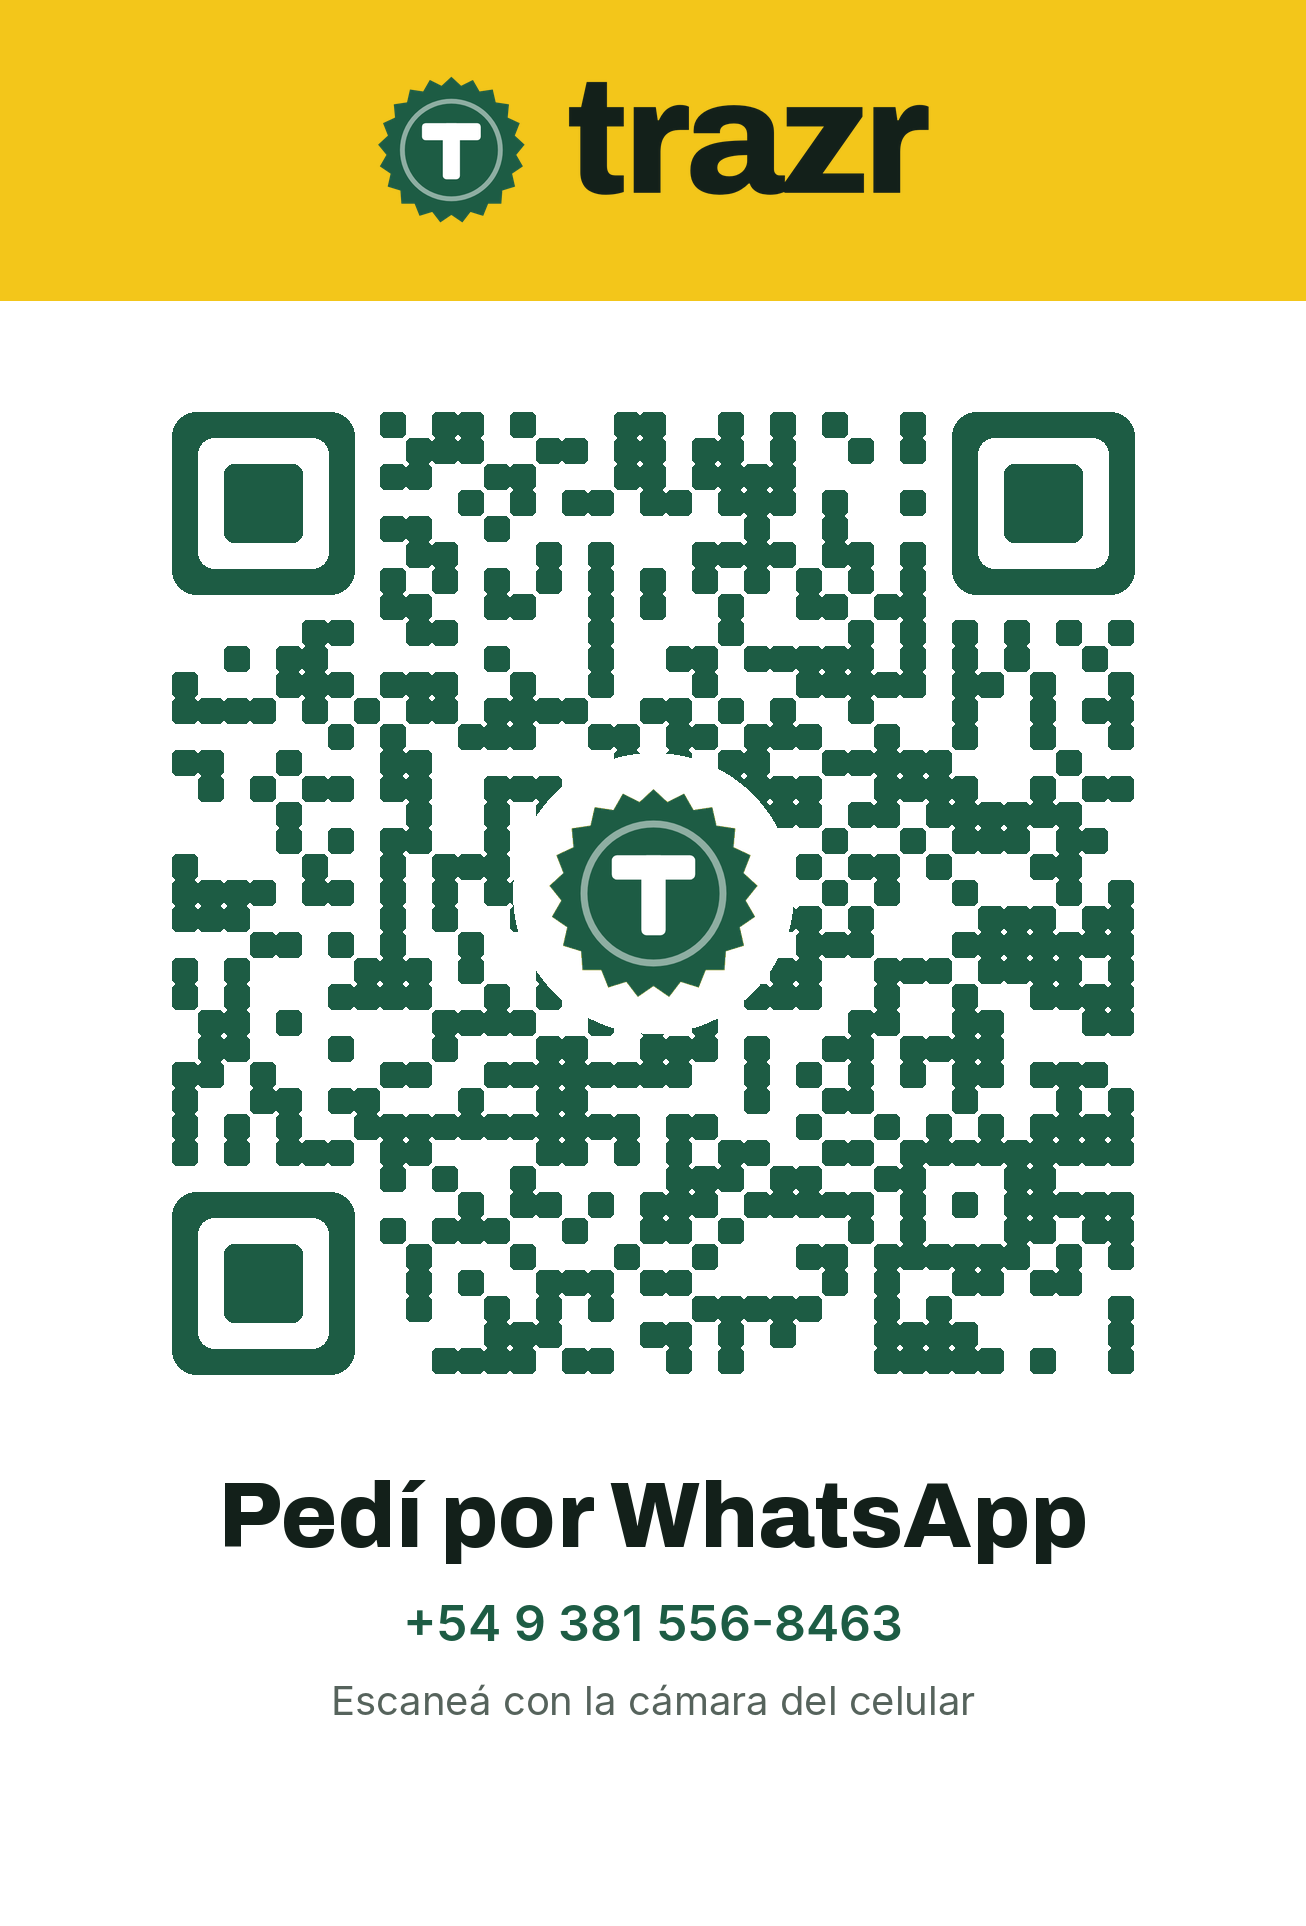
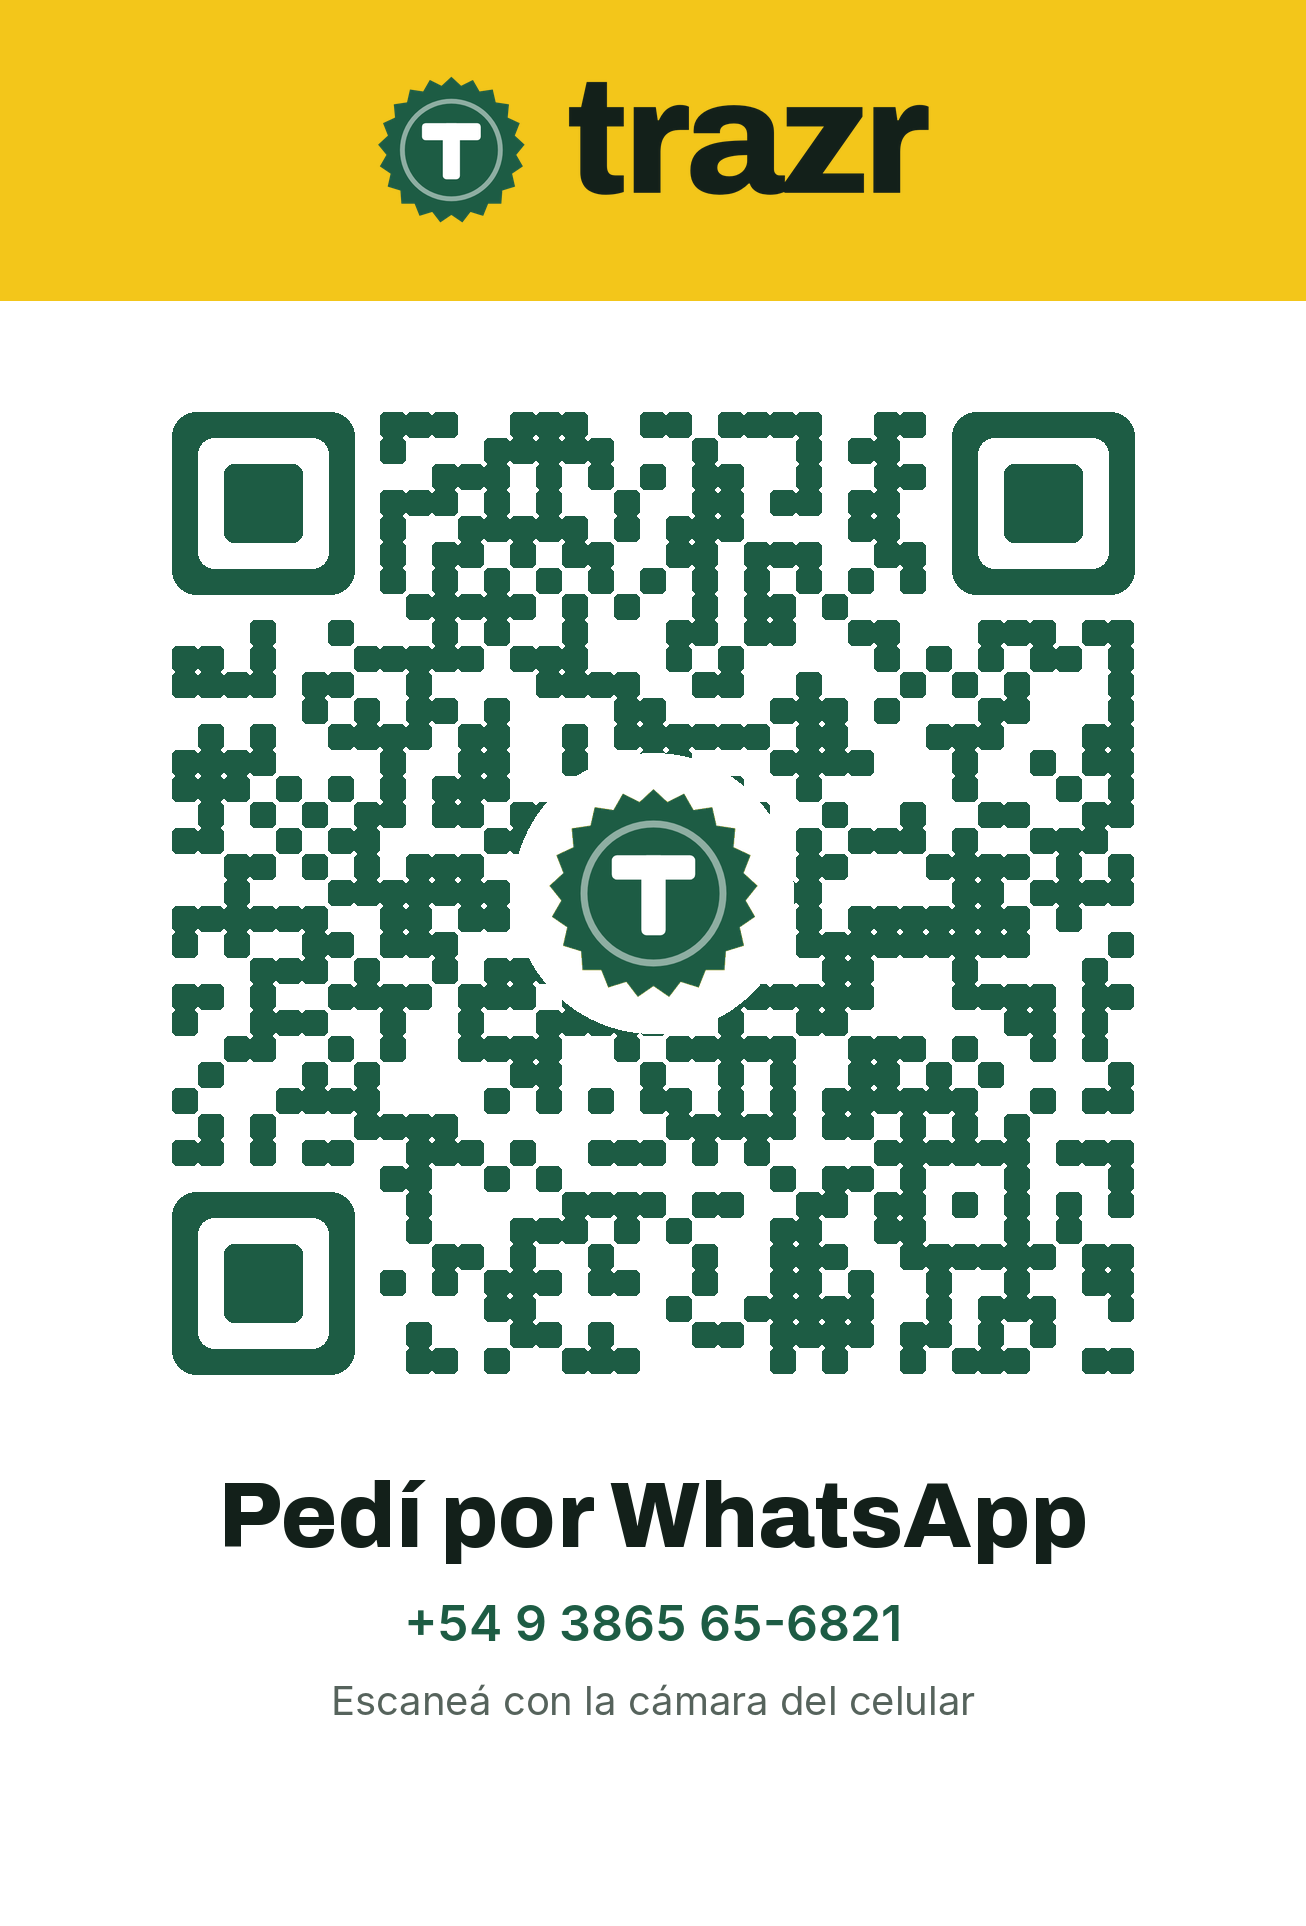
QR de WhatsApp con el número nuevo del bot (+54 9 3865 65-6821)
Claude-Session: https://claude.ai/code/session_01PWg987fXLTQ3eZk3JRRLQp

Changed region(s): [[0.1225, 0.1869, 0.8882, 0.7165], [0.4594, 0.81, 0.6738, 0.8723]]

diff --git a/CLAUDE.md b/CLAUDE.md
@@ -127,9 +127,12 @@ Equipo: Josemaria Henriquez Colacioppo, Nicolás Quinteros, Isa Pizzuto Dip (sol
   AI_DOWN_MSG): el usuario decidió esas reglas; el admin puede «Atender yo» desde Clientes. Panel
   `/admin/atencion` (contador en el menú; charla de las últimas 12 h en memoria, HISTORY_KEEP=40; responder;
   «Devolver al bot» → RELEASE_MSG). `admin.attention_*`; tests en tests/test_atencion.py.
-- QR de WhatsApp: `app/web/static/marca/trazr-qr-whatsapp(-afiche).png` → wa.me/5493815568463?text=Hola
-  (verificado con lector). Chip: +54 9 381 556-8463, era de otro negocio (SALEM): el usuario lo libera con
-  WhatsApp Business (su número personal usa WhatsApp común) y después lo agrega a la cuenta «Trazr».
+- NÚMERO DEL BOT (19/11): eSIM limpia +54 9 3865 65-6821 (wa.me/5493865656821). QR y afiche en
+  `app/web/static/marca/trazr-qr-whatsapp(-afiche).png` → wa.me/5493865656821?text=Hola (verificados con
+  lector). El chip anterior (+54 9 381 556-8463) estaba en la API de otro negocio (SALEM): soporte de
+  WhatsApp ofrece liberarlo con comprobante; quedó de repuesto. Falta: verificar en Meta (SMS/llamada),
+  PHONE_NUMBER_ID y WABA_ID nuevos en .env, registrar con PIN, subscribed_apps, token permanente,
+  LANDING_WHATSAPP=5493865656821.
 - Sitio público (dominio fijo de ngrok del usuario): https://residence-pod-pug.ngrok-free.dev
   (landing en `/`, panel en `/admin`, privacidad en `/privacidad`, webhook en `/whatsapp/webhook`).
   Cargado como sitio web del portfolio de Meta (19/11). Solo anda con la PC del usuario prendida.
